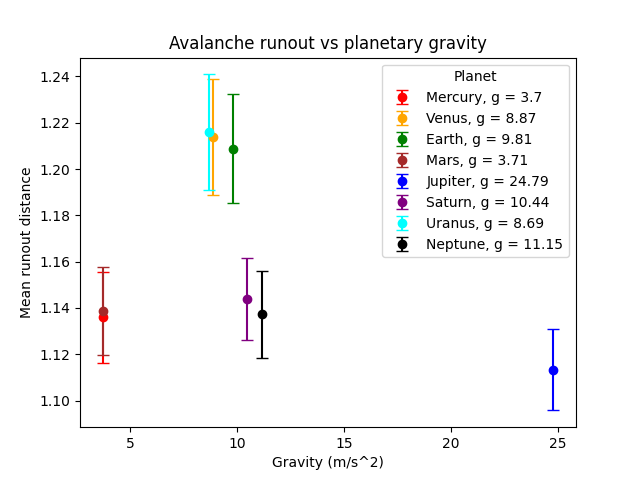
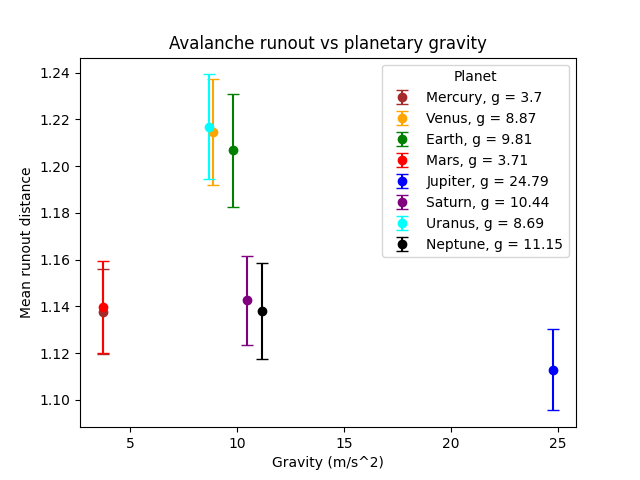
Before more avalanche like

diff --git a/Modeling avalanche.py b/Modeling avalanche.py
@@ -74,7 +74,7 @@ def propagate_avalanche(terrain, i0, j0, n_stones, mass_move):
 
     Ni, Nj = terrain.shape #Dimensions of the terrain
 
-    if 1 >= j0 >= Nj - 1 or 1 >= i0 >= Nj - 1:
+    if j0 <= 1 or j0 >= Nj - 1 or i0 <= 1 or i0 >= Ni-1:
         return terrain, 0.0
 
 
@@ -144,7 +144,7 @@ f = 0.2 #New stone probability probability
 
 
 target_num_avalanches = 300 
-repititions = 20
+repititions = 200
 size_of_terrain = 150
 
 all_runouts = {planet: [] for planet, g in planet_data}
@@ -227,20 +227,24 @@ plt.show()
 
 corr_mean = np.corrcoef(gravities, planet_means)[0,1]
 
-from scipy.stats import skew, kurtosis
-for planet, g in planet_data: 
-    counts, bins = np.histogram(all_runouts[planet], bins = 30)
-    for i in range(len(counts)):
-        print(f"Bin {i+1}: [{bins[i], bins[i+1]}] has {counts[i]} events")
-    plt.figure()
-    plt.hist(all_runouts[planet], bins = 30)
-    plt.title(f"Runout distribution for {planet} (g= {g})")
-    plt.yscale("log")
-    plt.xlabel("Runout distance")
-    plt.ylabel("Frequency")
-    plt.show()
 
+
+from scipy.stats import skew, kurtosis
+fig, axes = plt.subplots(2,4, figsize=(14,16), sharex=True, sharey=True)
+
+all_data = np.concatenate(list(all_runouts.values()))
+bins = np.histogram_bin_edges(all_data, bins = 30)
+
+for ax, (planet, g) in zip(axes.flat, planet_data): 
+    #counts, wins = np.histogram(all_runouts[planet], bins = 30)
+    #for i in range(len(counts)):
+    #    print(f"Bin {i+1}: [{wins[i], wins[i+1]}] has {counts[i]} events")
+    #plt.figure()
     data = all_runouts[planet]
+    ax.hist(data, bins = bins, color=planet_colours[planet], alpha=0.8)
+    ax.set_title(f"{planet} g={g}")
+    ax.set_yscale("log")
+    #data = all_runouts[planet]
     if len(data) > 0:
         median_val = np.median(data)
         mean_val = np.mean(data)
@@ -248,3 +252,10 @@ for planet, g in planet_data:
         skew_val = skew(data)
         kurt_val = kurtosis(data)
         print(f"{planet}: median={median_val:.2f}, mean={mean_val:.2f} IQR={iqr_val:.2f}, skew={skew_val:.2f}, kurtosis={kurt_val:.2f}")
+
+fig.supxlabel("Runout distance")
+fig.supylabel("Frequency")
+fig.suptitle("Runout distance distribution across planets")
+#plt.tight_layout()
+plt.show()
+
